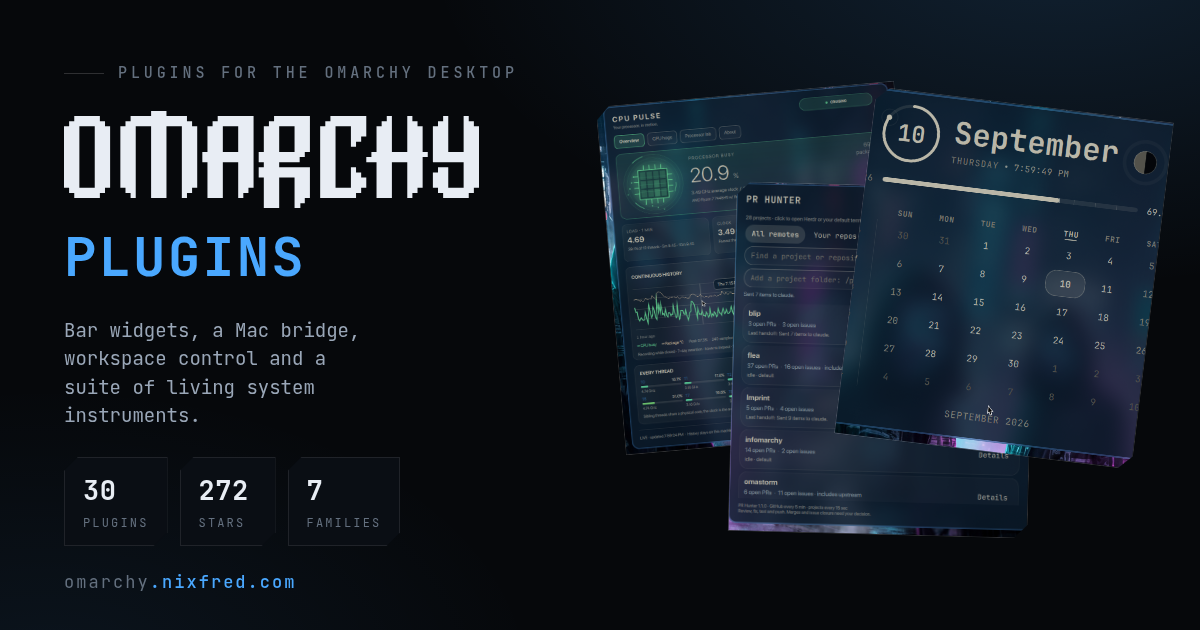
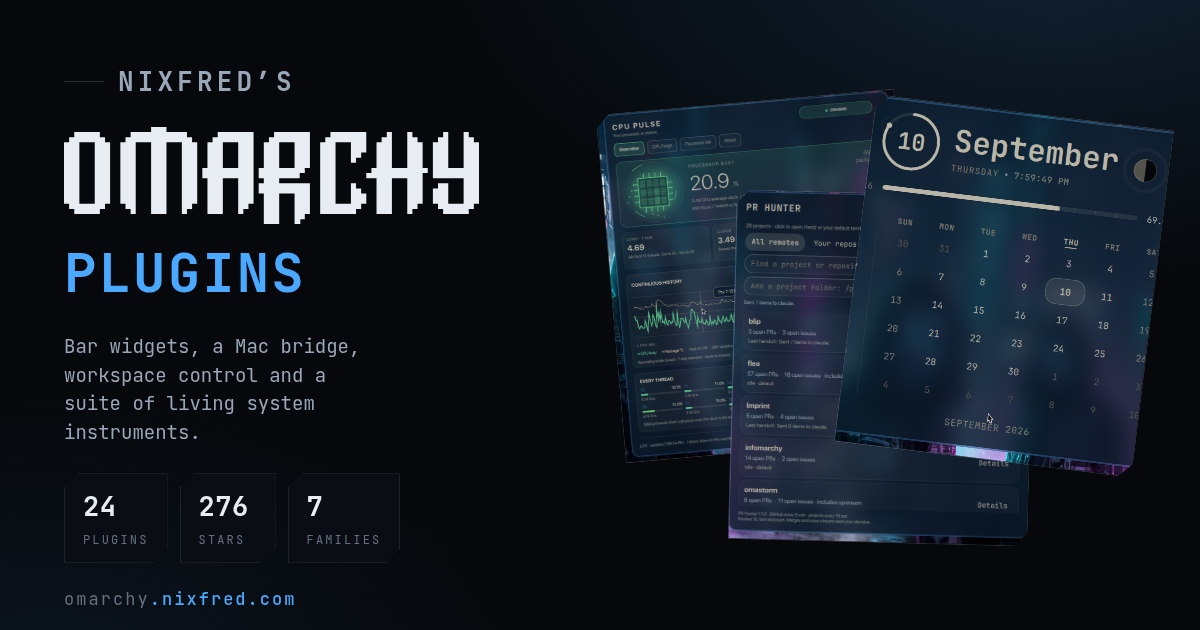
feat(site): the hero says whose plugins these are
WHAT: The page led with Omarchy's own wordmark and the word PLUGINS and nothing
else, so it read as an official Omarchy site. It is one person's collection. The
hero now says NIXFRED'S above the mark, and the claim is corrected everywhere a
human or a crawler reads a title.

WHY IT MATTERED: the wordmark is the genuine one, copied from
/usr/share/omarchy/logo.svg and never redrawn. That is exactly what made the
page look official — borrowing a project's real mark with no owner in front of
it is a claim, whether or not anyone meant it as one. Fred's own standing note
says it plainly: he uses Omarchy, he did not build it.

CHANGED:
  hero          NIXFRED'S sits above the wordmark, stacked rather than beside
                it — on the same baseline it competes with the mark; above, it
                reads as the possessive it is.
  <title>       "Omarchy Plugins by nixfred" → "Nixfred's Omarchy Plugins".
                The owner now leads instead of trailing.
  og / twitter  same title, so a shared link carries the attribution too.
  share card    the strapline is replaced by NIXFRED'S, set large above the
                wordmark, matching the page. Re-rendered.
  attribution   "Public source, built in the open by Fred Nix." becomes "One
                person's collection, built in the open by Fred Nix. Not an
                official Omarchy project." That last sentence is the only thing
                here Fred did not ask for; it answers the concern directly and
[…]

diff --git a/site/index.html b/site/index.html
@@ -3,7 +3,7 @@
 <head>
 <meta charset="utf-8">
 <meta name="viewport" content="width=device-width, initial-scale=1">
-<title>Omarchy Plugins by nixfred</title>
+<title>Nixfred's Omarchy Plugins</title>
 <meta name="description" content="Twenty-four plugins and a theme for the Omarchy desktop, built by Fred Nix. Bar widgets, a Mac bridge, workspace control and a suite of living system instruments.">
 <meta name="color-scheme" content="dark">
 <meta name="theme-color" content="#06080b">
@@ -13,7 +13,7 @@
 <link rel="preload" href="data.json" as="fetch" crossorigin>
 <link rel="canonical" href="https://omarchy.nixfred.com/">
 <meta property="og:site_name" content="omarchy.nixfred.com">
-<meta property="og:title" content="Omarchy Plugins by nixfred">
+<meta property="og:title" content="Nixfred&#39;s Omarchy Plugins">
 <meta property="og:description" content="Twenty-four plugins and a theme for the Omarchy desktop. Bar widgets, a Mac bridge, workspace control, and a suite of living system instruments.">
 <meta property="og:type" content="website">
 <meta property="og:url" content="https://omarchy.nixfred.com/">
@@ -23,17 +23,17 @@
 <meta property="og:image" content="https://omarchy.nixfred.com/assets/img/og.png">
 <meta property="og:image:width" content="1200">
 <meta property="og:image:height" content="630">
-<meta property="og:image:alt" content="The Omarchy wordmark over three plugin panels: CPU Pulse, PR Hunter and Chronos.">
+<meta property="og:image:alt" content="Nixfred's Omarchy Plugins: the Omarchy wordmark over three plugin panels, CPU Pulse, PR Hunter and Chronos.">
 <meta name="twitter:card" content="summary_large_image">
 <meta name="twitter:site" content="@nixfred">
 <meta name="twitter:creator" content="@nixfred">
-<meta name="twitter:title" content="Omarchy Plugins by nixfred">
+<meta name="twitter:title" content="Nixfred&#39;s Omarchy Plugins">
 <meta name="twitter:description" content="Twenty-four plugins and a theme for the Omarchy desktop. Bar widgets, a Mac bridge, workspace control, and a suite of living system instruments.">
 <meta name="twitter:image" content="https://omarchy.nixfred.com/assets/img/og.png">
 <link rel="preconnect" href="https://fonts.googleapis.com">
 <link rel="preconnect" href="https://fonts.gstatic.com" crossorigin>
 <link rel="stylesheet" href="https://fonts.googleapis.com/css2?family=JetBrains+Mono:wght@400;500;700&display=swap">
-<link rel="stylesheet" href="assets/css/style.css?v=e046a5ed">
+<link rel="stylesheet" href="assets/css/style.css?v=ae481d93">
 </head>
 <body>
 
@@ -58,19 +58,25 @@
   <div class="wrap hero-grid">
 
     <div class="hero-copy">
-      <div class="eyebrow">plugins for the omarchy desktop</div>
       <!-- The genuine wordmark, copied from /usr/share/omarchy/logo.svg on this
            machine. Never redrawn by hand. -->
-      <a class="lockup" href="/" aria-label="omarchy.nixfred.com, home">
-        <span class="oma" id="oma-mark" role="img" aria-label="Omarchy"></span>
-        <span class="plugins">plugins</span>
+      <a class="lockup" href="/" aria-label="Nixfred's Omarchy plugins, home">
+        <!-- The possessive is load-bearing, not decoration. The Omarchy wordmark
+             below it is the project's OWN mark, so without an owner on the front
+             this page reads as an official Omarchy site. It is one person's
+             collection. -->
+        <span class="owner">Nixfred&rsquo;s</span>
+        <span class="mark-row">
+          <span class="oma" id="oma-mark" role="img" aria-label="Omarchy"></span>
+          <span class="plugins">plugins</span>
+        </span>
       </a>
       <p class="lede">
         Explore interactive previews inspired by the widgets, then click through to each
         real plugin.
       </p>
       <p class="sub">
-        Public source, built in the open by <a href="https://github.com/nixfred">Fred Nix</a>.
+        One person's collection, built in the open by <a href="https://github.com/nixfred">Fred Nix</a>. Not an official Omarchy project.
       </p>
       <div class="stats" id="stats"></div>
     </div>

diff --git a/site/assets/css/style.css b/site/assets/css/style.css
@@ -669,7 +669,19 @@ section h2 { letter-spacing: 0.02em; font-weight: 700; }
 .card h3, .feat h3, .row b { letter-spacing: -0.01em; font-weight: 700; }
 
 /* The genuine OMARCHY wordmark, from /usr/share/omarchy/logo.svg. */
-.lockup { display: flex; align-items: flex-end; gap: 18px; flex-wrap: wrap; margin-bottom: 22px; }
+/* Stacked now, so the owner sits above the mark rather than beside it. Putting
+   "Nixfred's" on the same line would have it compete with the wordmark for the
+   same baseline; above, it reads as the possessive it is. */
+.lockup { display: flex; flex-direction: column; align-items: flex-start; gap: 7px; margin-bottom: 22px; text-decoration: none; }
+.lockup .owner {
+  font: 700 clamp(15px, 2.2vw, 25px)/1 var(--mono);
+  letter-spacing: 0.17em;
+  text-transform: uppercase;
+  color: var(--fg-2);
+  padding-left: 3px;   /* optically aligns with the wordmark's left stem */
+}
+.lockup:hover .owner { color: var(--accent); }
+.lockup .mark-row { display: flex; align-items: flex-end; gap: 18px; flex-wrap: wrap; }
 .lockup .oma { width: min(360px, 62vw); color: var(--fg); display: block; }
 .lockup .oma svg { width: 100%; height: auto; display: block; }
 .lockup .oma svg g { fill: currentColor; }

diff --git a/scripts/og-card.html b/scripts/og-card.html
@@ -41,6 +41,9 @@
     display: flex; align-items: center; gap: 14px; margin-bottom: 26px;
   }
   .kicker::before { content: ""; width: 40px; height: 1px; background: var(--line-2); }
+  /* The owner reads as a possessive above the wordmark, not as a strapline
+     beside it. Bigger and brighter than the old kicker for that reason. */
+  .kicker { font-size: 26px; font-weight: 700; letter-spacing: .16em; color: var(--fg-2); }
   .mark { width: 415px; color: var(--fg); display: block; }
   .mark svg { width: 100%; height: auto; display: block; }
   h1 {
@@ -73,7 +76,7 @@
 </head>
 <body>
   <div>
-    <div class="kicker">PLUGINS FOR THE OMARCHY DESKTOP</div>
+    <div class="kicker">NIXFRED’S</div>
     <div class="mark" id="mark"></div>
     <h1>PLUGINS</h1>
     <p>Bar widgets, a Mac bridge, workspace control and a suite of living system instruments.</p>
